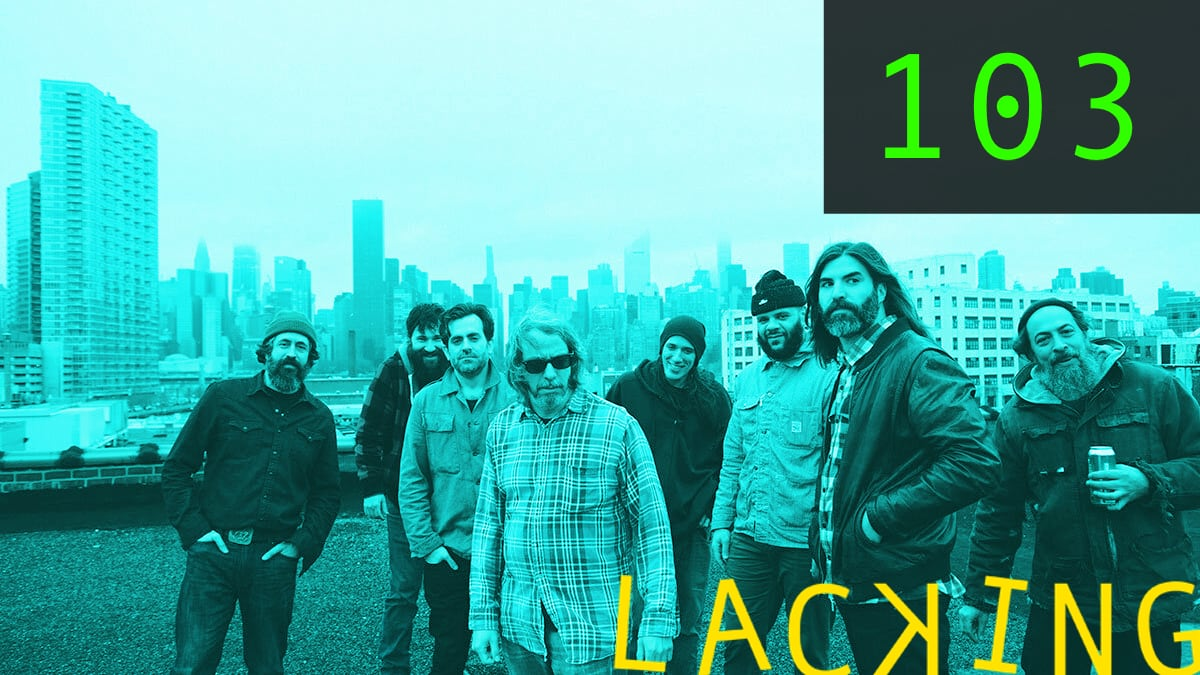
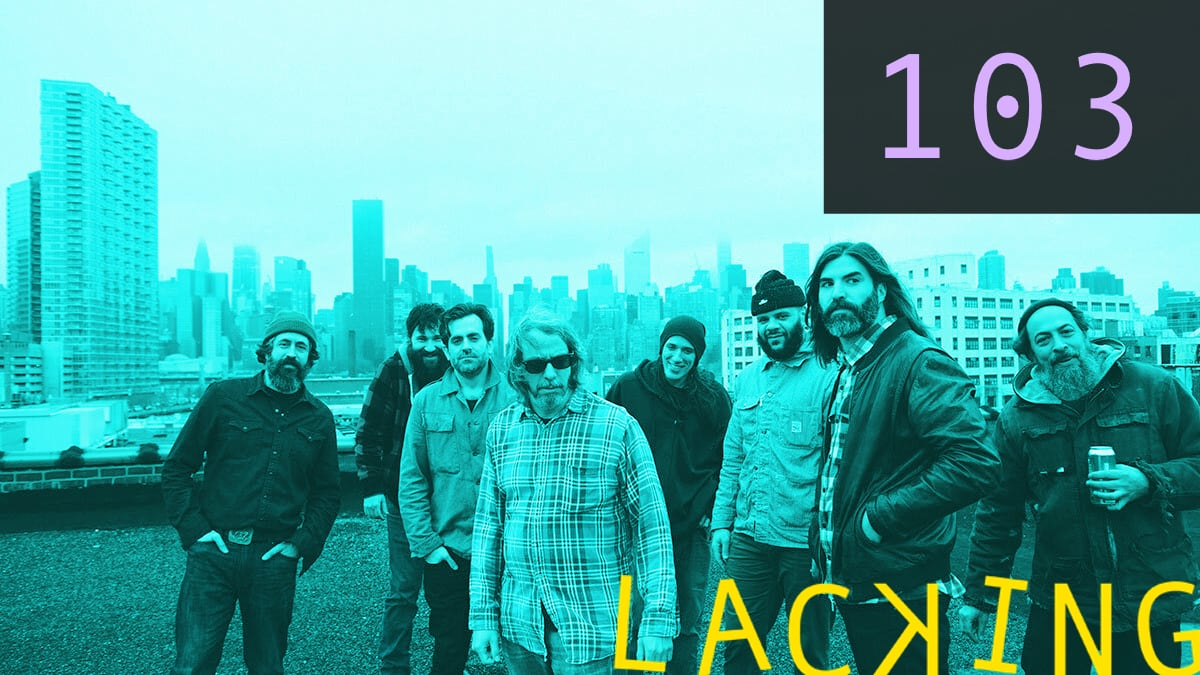
Update graphics, add episodes 109 + 110

Changed region(s): [[0.74, 0.0622, 0.9558, 0.2489]]

diff --git a/_posts/podcast/2020-06-30-0110-walk-don-t-run.md b/_posts/podcast/2020-06-30-0110-walk-don-t-run.md
@@ -1,0 +1,30 @@
+---
+title: 'Episode 0110: Walk Don''t Run'
+subtitle: ''
+category: podcast
+name: Walk Don't Run
+episode: '0110'
+description: If you’re wondering if Acid Tongue is about having a particularly caustic
+  wit, or about some sort of psychedelic dosage, the answer is yes.
+author: jclacking
+airdate: '2020-06-30'
+playlist: 2020-06-30-0110-walk-don-t-run
+link_url: https://www.mixcloud.com/widget/iframe/?hide_cover=1&light=1&hide_artwork=1&feed=%2Fthe-lacking-org%2F2mgstf-110-walk-dont-run%2F
+link_type: mixcloud
+image:
+  src: podcast/0110-acid-tongue.jpg
+  caption: Acid Tongue
+index: Walk Don't Run
+tags: acid-tongue brendan-benson m-ward looper nortec-collective basement-scene cells
+  mr-elevator-brain-hotel siberian afghan-whigs flour king-gizzard-lizard-wizard olivia-jean
+  patchworks nathaniel-rateliff margaret-glaspy mc-paul-barman billy-childish heartless-bastards
+  sublime cheo binder-krieglstein jungle-fire young-holt-trio junior-varsity say-hi
+  aquabats luigee-trademarq dan-le-sac-vs-scroobius-pip
+keywords: Acid Tongue, Brendan Benson, M. Ward, Looper, Nortec Collective, The Basement
+  Scene, The Cells, Mr. Elevator &amp; The Brain Hotel, Siberian        , Afghan Whigs,
+  Flour, King Gizzard &amp; The Lizard Wizard, Olivia Jean, Patchworks, Nathaniel
+  Rateliff, Margaret Glaspy, MC Paul Barman, Billy Childish, Heartless Bastards, Sublime,
+  Cheo, Binder + Krieglstein, Jungle Fire, The Young-Holt Trio, Junior Varsity, Say
+  Hi, Aquabats, Luigee Trademarq, Dan Le Sac vs. Scroobius Pip
+---
+If you’re wondering if Acid Tongue is about having a particularly caustic wit, or about some sort of psychedelic dosage, the answer is yes.

diff --git a/_posts/podcast/2020-06-26-0109-digger.md b/_posts/podcast/2020-06-26-0109-digger.md
@@ -1,0 +1,30 @@
+---
+title: 'Episode 0109: Digger'
+subtitle: ''
+category: podcast
+name: Digger
+episode: '0109'
+description: Go ahead and call your band Great Grandpa. You better have something
+  pretty weird up your sleeve.
+author: jclacking
+airdate: '2020-06-26'
+playlist: 2020-06-26-0109-digger
+link_url: https://www.mixcloud.com/widget/iframe/?hide_cover=1&light=1&hide_artwork=1&feed=%2Fthe-lacking-org%2Fztookn-109-digger%2F
+link_type: mixcloud
+image:
+  src: podcast/0109-great-grandpa.jpg
+  caption: Great Grandpa
+index: Digger
+tags: great-grandpa wrens enon allah-las funky-butt-brass-band joe-pastrana-his-orchestra
+  preservation-hall-jazz-band beach-house madness lower-48 melkbelly post-animal shopping
+  obscuritones incredible-jimmy-smith de-la-soul royal-fingers chicano-batman peter-bjorn-john
+  dry-cleaning mr-elevator his-name-is-alive iggy-pop police scout-niblett cory-wong
+  boneless-children-foundation negativland juana-molina
+keywords: Great Grandpa, The Wrens, Enon, Allah-Las, Funky Butt Brass Band, Joe Pastrana
+  &amp; His Orchestra, Preservation Hall Jazz Band, Beach House, Madness, Lower 48,
+  Melkbelly, Post Animal, Shopping, The Obscuritones, The Incredible Jimmy Smith,
+  De La Soul, The Royal Fingers, Chicano Batman, Peter Bjorn and John, Dry Cleaning,
+  Mr. Elevator, His Name Is Alive, Iggy Pop, The Police, Scout Niblett, Cory Wong,
+  The Boneless Children Foundation, Negativland, Juana Molina
+---
+Go ahead and call your band Great Grandpa. You better have something pretty weird up your sleeve.
